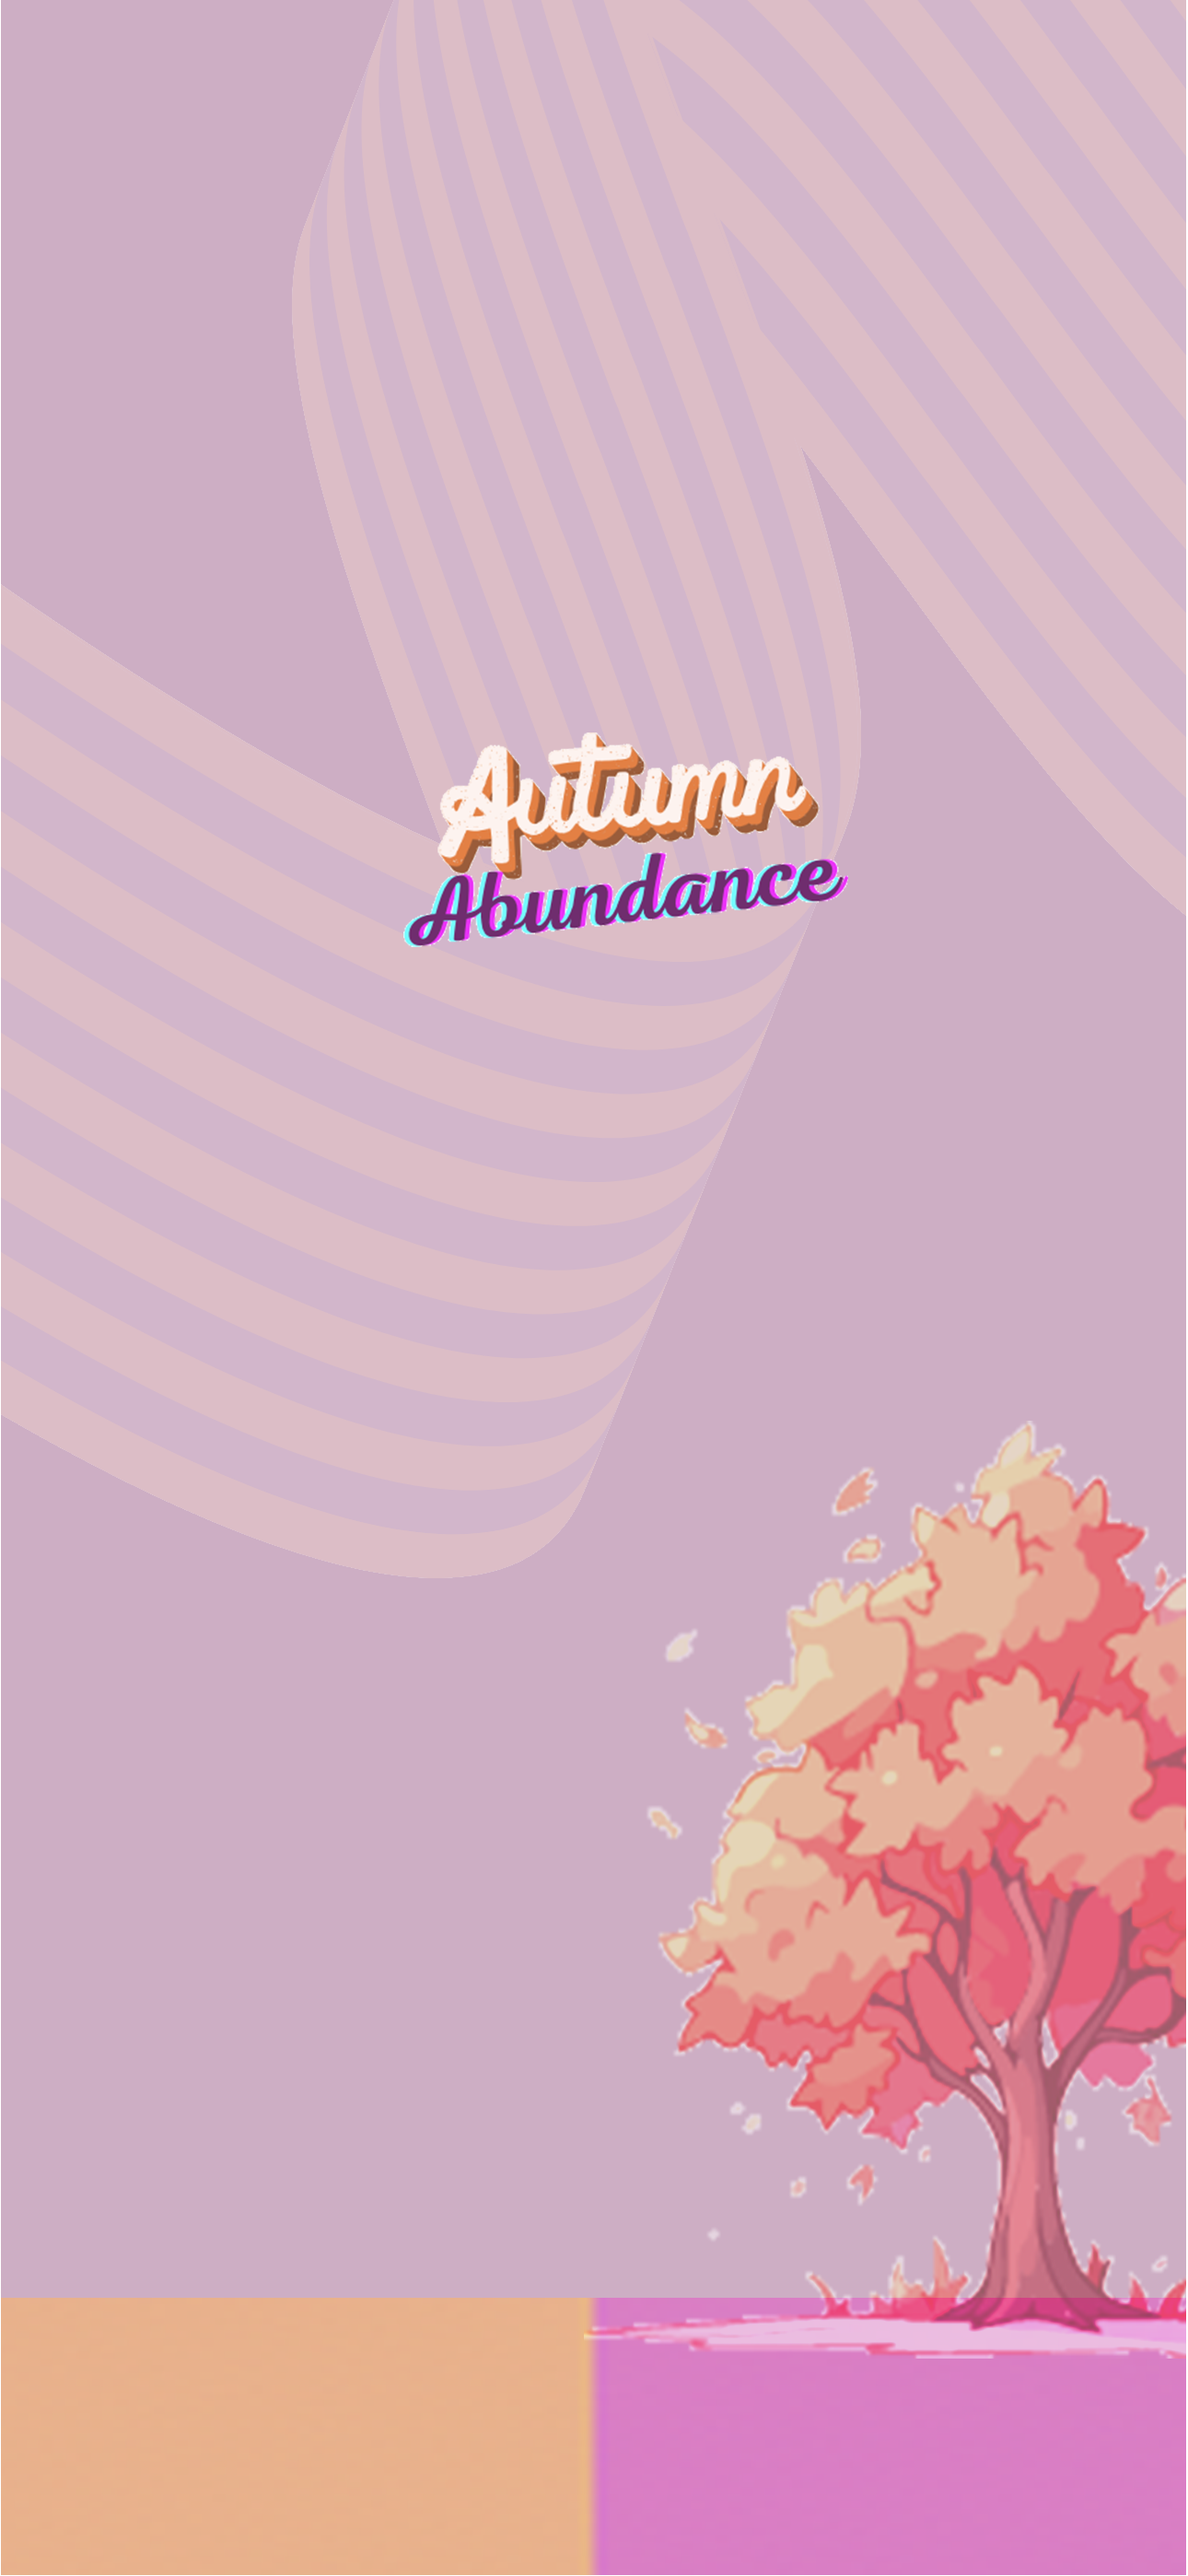
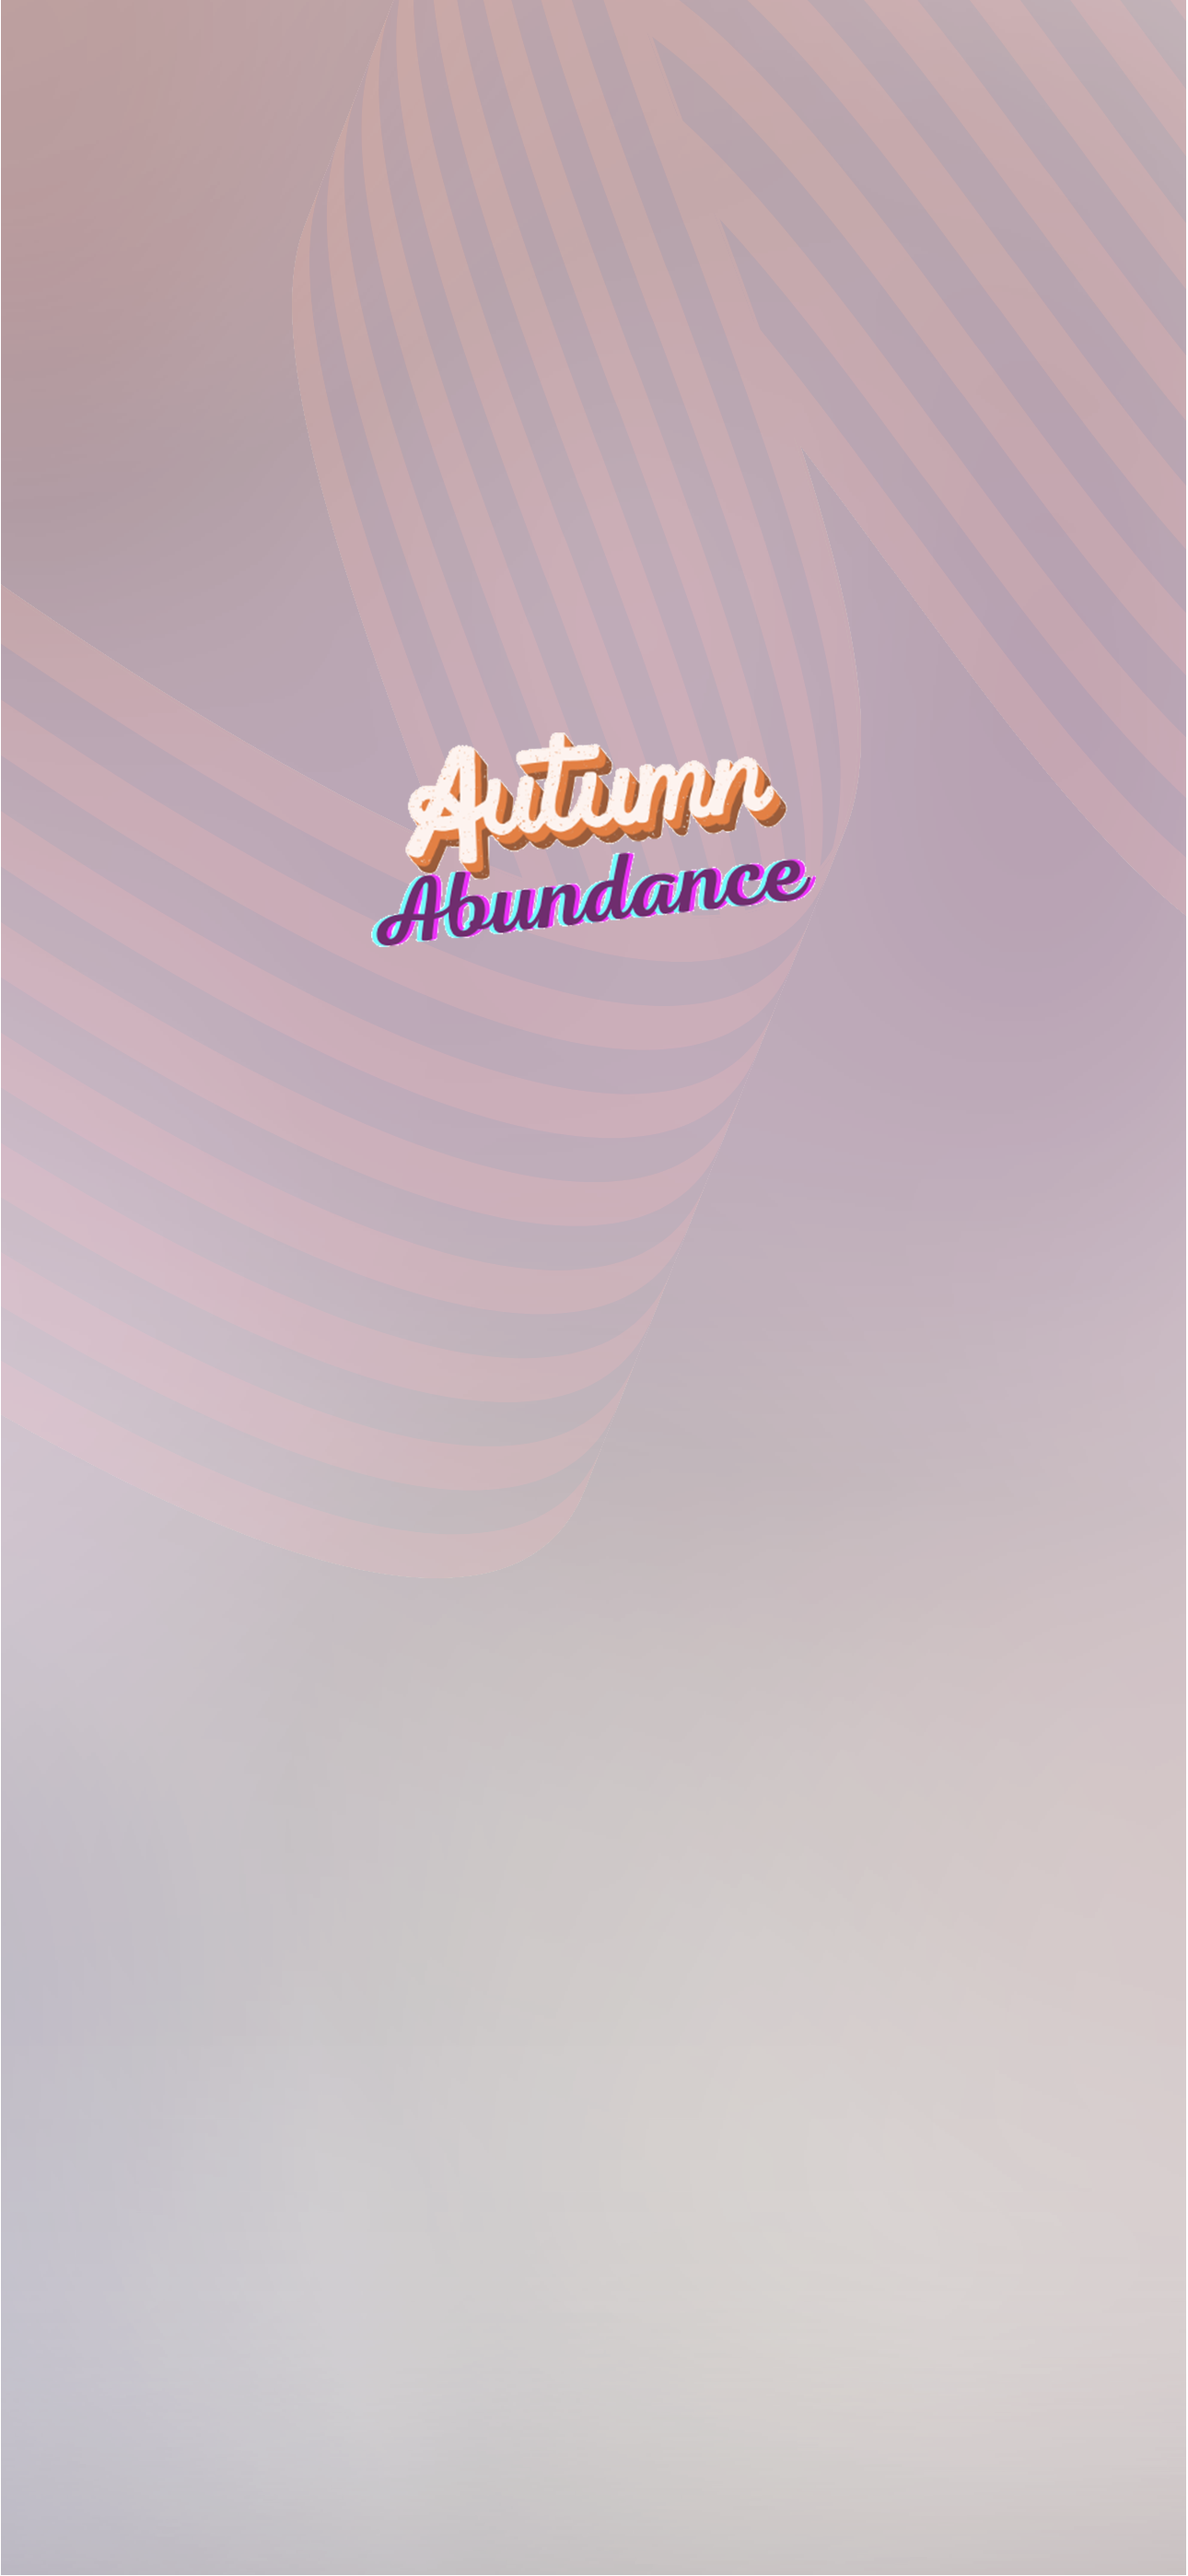
new homescreen

diff --git a/src/components/screens/HomeScreen.tsx b/src/components/screens/HomeScreen.tsx
@@ -70,6 +70,18 @@ class HomeScreen extends PureComponent<any, any> {
                         source={require('../../../assets/screen-home-bg.png')}
                     />
 
+<Image
+                        source={require('../../../assets/home-element-0324.png')}
+                        style={{
+                            position: 'absolute', resizeMode: 'contain',
+                            // opacity: (Dimensions.get("screen").height < 800 ? 0.1 : 1.0 - (logoScrollAlphaReductionDelta * Math.min(1, Math.max(0, this.state.scrollPosY / 100)))),
+                            left: 0,
+                            bottom: NavBar.navBarHeight-3,
+                            // backgroundColor: 'red',
+                            width: Dimensions.get('screen').width,
+                            height: Dimensions.get('screen').width * 967/1287,
+                        }}
+                    />
                     <LComponent
                         name='homeScreenVideoBgContainer'
                         style={{ position: 'absolute' }}
@@ -91,18 +103,6 @@ class HomeScreen extends PureComponent<any, any> {
                         }
                     </LComponent>
 
-                    {/* <Image
-                        source={require('../../../assets/logo-white.png')}
-                        style={{
-                            position: 'absolute', resizeMode: 'contain',
-                            opacity: (Dimensions.get("screen").height < 800 ? 0.1 : 1.0 - (logoScrollAlphaReductionDelta * Math.min(1, Math.max(0, this.state.scrollPosY / 100)))),
-                            left: 80,
-                            // backgroundColor: 'red',
-                            top: screenHeaderHeight + 15,
-                            width: Dimensions.get('screen').width - (2 * 80),
-                            height: Dimensions.get('screen').width - (2 * 80) * 1313 / 815,
-                        }}
-                    /> */}
 
                     <ScreenHeader
                         text={"WELCOME MY FRIEND"}
